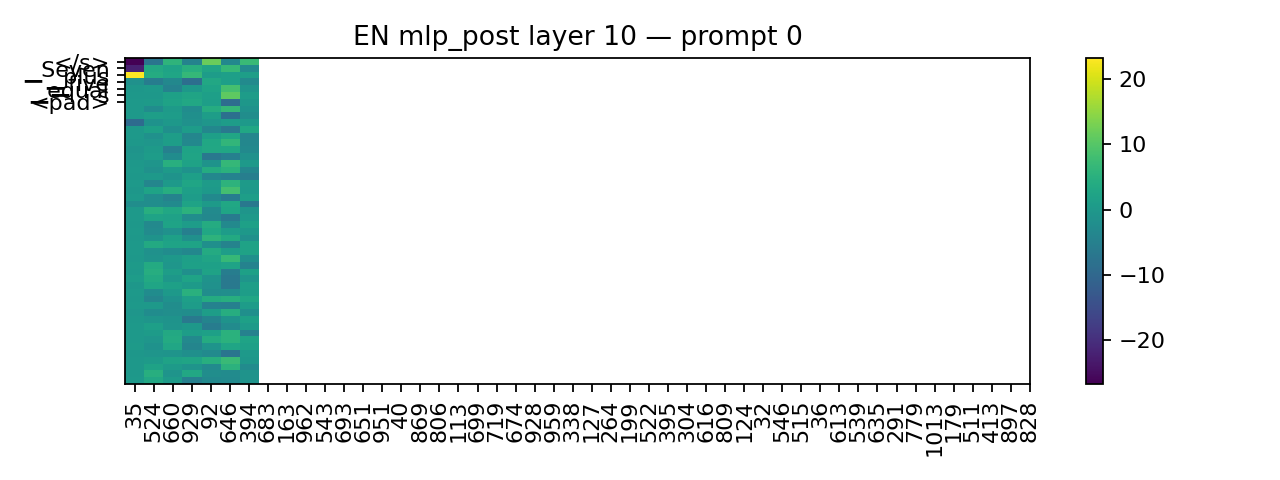
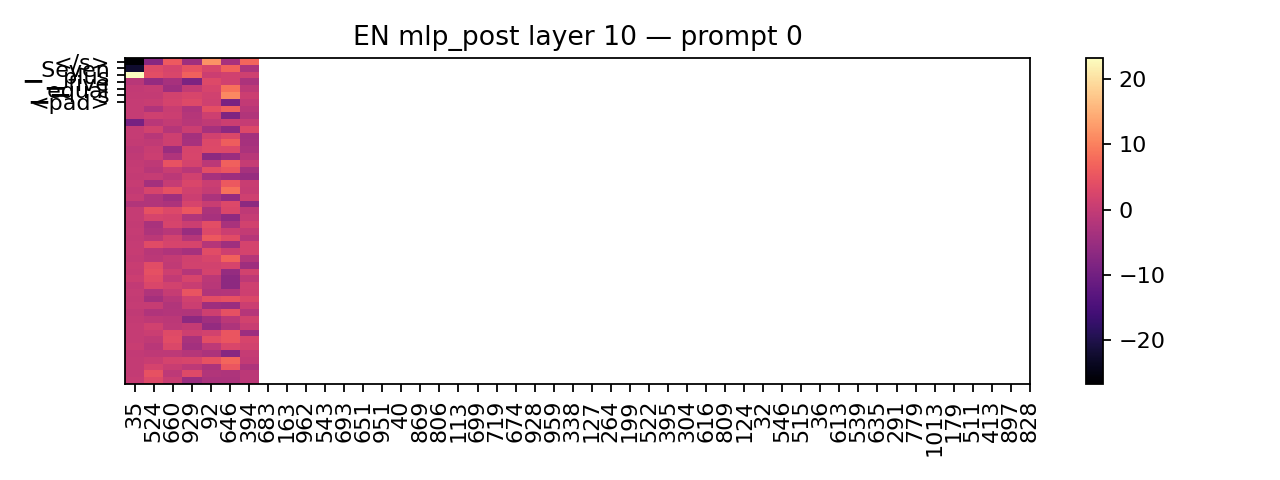
Refine arithmetic heatmaps with magma colormap

Changed region(s): [[0.0938, 0.125, 0.2188, 0.8125], [0.8438, 0.125, 0.875, 0.8125]]

diff --git a/experiments/conceptual_circuits/arith/src/visual.py b/experiments/conceptual_circuits/arith/src/visual.py
@@ -1,3 +1,4 @@
+import argparse
 import os
 import yaml
 import numpy as np
@@ -41,12 +42,12 @@ def token_strings(tokenizer, prompts, max_len=None):
     return decoded
 
 
-def plot_heatmaps(tensor, tokens, neuron_ids, title, save_path):
+def plot_heatmaps(tensor, tokens, neuron_ids, title, save_path, cmap):
     batch, seq_len, _ = tensor.shape
     for idx in range(min(batch, 4)):
         slice_ = tensor[idx, :, neuron_ids]
         plt.figure(figsize=(max(6, len(neuron_ids) / 6), max(3, seq_len / 3)))
-        plt.imshow(slice_, aspect="auto", interpolation="nearest")
+        plt.imshow(slice_, aspect="auto", interpolation="nearest", cmap=cmap)
         plt.colorbar()
         plt.xticks(range(len(neuron_ids)), [str(i) for i in neuron_ids], rotation=90)
         plt.yticks(range(len(tokens[idx])), tokens[idx])
@@ -59,9 +60,10 @@ def plot_heatmaps(tensor, tokens, neuron_ids, title, save_path):
 
 def plot_token_magnitude(tensor, tokens, title, save_path):
     magnitudes = np.mean(np.abs(tensor), axis=(0, 2))
-    plt.figure(figsize=(max(6, len(tokens[0]) / 2), 3.5))
+    x_len = len(tokens[0])
+    plt.figure(figsize=(max(6, x_len / 2), 3.5))
     plt.plot(magnitudes, marker="o")
-    plt.xticks(range(len(tokens[0])), tokens[0], rotation=90)
+    plt.xticks(range(x_len), tokens[0], rotation=90)
     plt.title(title)
     plt.tight_layout()
     plt.savefig(save_path, dpi=160)
@@ -77,43 +79,67 @@ def plot_histogram(tensor, title, save_path):
     plt.close()
 
 
+def parse_args(cfg):
+    parser = argparse.ArgumentParser(description="Visualize arithmetic conceptual circuit activations.")
+    parser.add_argument("--lang", choices=cfg["languages"], default="en", help="Language to visualize.")
+    parser.add_argument(
+        "--kind",
+        choices=["resid", "mlp_pre", "mlp_post"],
+        default="mlp_post",
+        help="Activation kind to visualize.",
+    )
+    parser.add_argument(
+        "--layer",
+        type=int,
+        default=cfg["layers_to_probe"][-1],
+        help="Layer index to visualize (default: last configured layer).",
+    )
+    parser.add_argument("--topk", type=int, default=48, help="Number of neurons to display in heatmaps.")
+    parser.add_argument("--cmap", default="magma", help="Matplotlib colormap to use for heatmaps.")
+    parser.add_argument(
+        "--heatmaps-only",
+        action="store_true",
+        help="If set, only the heatmap figures are generated (skip histogram and token magnitude plots).",
+    )
+    return parser.parse_args()
+
+
 def main():
     cfg = load_cfg()
+    args = parse_args(cfg)
+
     tokenizer = AutoTokenizer.from_pretrained(cfg["model_name"], use_fast=True)
     if tokenizer.pad_token is None:
         tokenizer.pad_token = tokenizer.eos_token
 
-    lang = "en"
-    layer = cfg["layers_to_probe"][-1]
-    kind = "mlp_post"
-
-    base_dir = os.path.join(cfg["save_dir"], "activations", lang)
-    figures_dir = os.path.join(cfg["save_dir"], "figures", f"{lang}_L{layer}")
+    base_dir = os.path.join(cfg["save_dir"], "activations", args.lang)
+    figures_dir = os.path.join(cfg["save_dir"], "figures", f"{args.lang}_L{args.layer}")
     os.makedirs(figures_dir, exist_ok=True)
 
-    tensor = get_layer_tensor(load_obj_array(os.path.join(base_dir, f"{kind}.npy")), layer)
+    tensor = get_layer_tensor(load_obj_array(os.path.join(base_dir, f"{args.kind}.npy")), args.layer)
 
-    with open(os.path.join(cfg["prompts_dir"], f"{lang}.txt"), "r", encoding="utf-8") as f:
+    with open(os.path.join(cfg["prompts_dir"], f"{args.lang}.txt"), "r", encoding="utf-8") as f:
         prompts = [line.strip() for line in f if line.strip()]
 
-    token_text = token_strings(tokenizer, prompts[:tensor.shape[0]], max_len=tensor.shape[1])
-    top_neurons = topk_neurons_by_variance(tensor, k=48)
+    token_text = token_strings(tokenizer, prompts[: tensor.shape[0]], max_len=tensor.shape[1])
+    top_neurons = topk_neurons_by_variance(tensor, k=args.topk)
 
-    title = f"{lang.upper()} {kind} layer {layer}"
-    heatmap_root = os.path.join(figures_dir, f"heatmap_{kind}_L{layer}.png")
-    plot_heatmaps(tensor, token_text, top_neurons, title, heatmap_root)
+    title = f"{args.lang.upper()} {args.kind} layer {args.layer}"
+    heatmap_root = os.path.join(figures_dir, f"heatmap_{args.kind}_L{args.layer}.png")
+    plot_heatmaps(tensor, token_text, top_neurons, title, heatmap_root, cmap=args.cmap)
 
-    plot_token_magnitude(
-        tensor,
-        token_text,
-        f"{lang.upper()} mean |act| per token — {kind} L{layer}",
-        os.path.join(figures_dir, f"token_magnitude_{kind}_L{layer}.png"),
-    )
-    plot_histogram(
-        tensor,
-        f"{lang.upper()} distribution — {kind} L{layer}",
-        os.path.join(figures_dir, f"hist_{kind}_L{layer}.png"),
-    )
+    if not args.heatmaps_only:
+        plot_token_magnitude(
+            tensor,
+            token_text,
+            f"{args.lang.upper()} mean |act| per token — {args.kind} L{args.layer}",
+            os.path.join(figures_dir, f"token_magnitude_{args.kind}_L{args.layer}.png"),
+        )
+        plot_histogram(
+            tensor,
+            f"{args.lang.upper()} distribution — {args.kind} L{args.layer}",
+            os.path.join(figures_dir, f"hist_{args.kind}_L{args.layer}.png"),
+        )
 
     print(f"Saved figures to: {figures_dir}")
 
